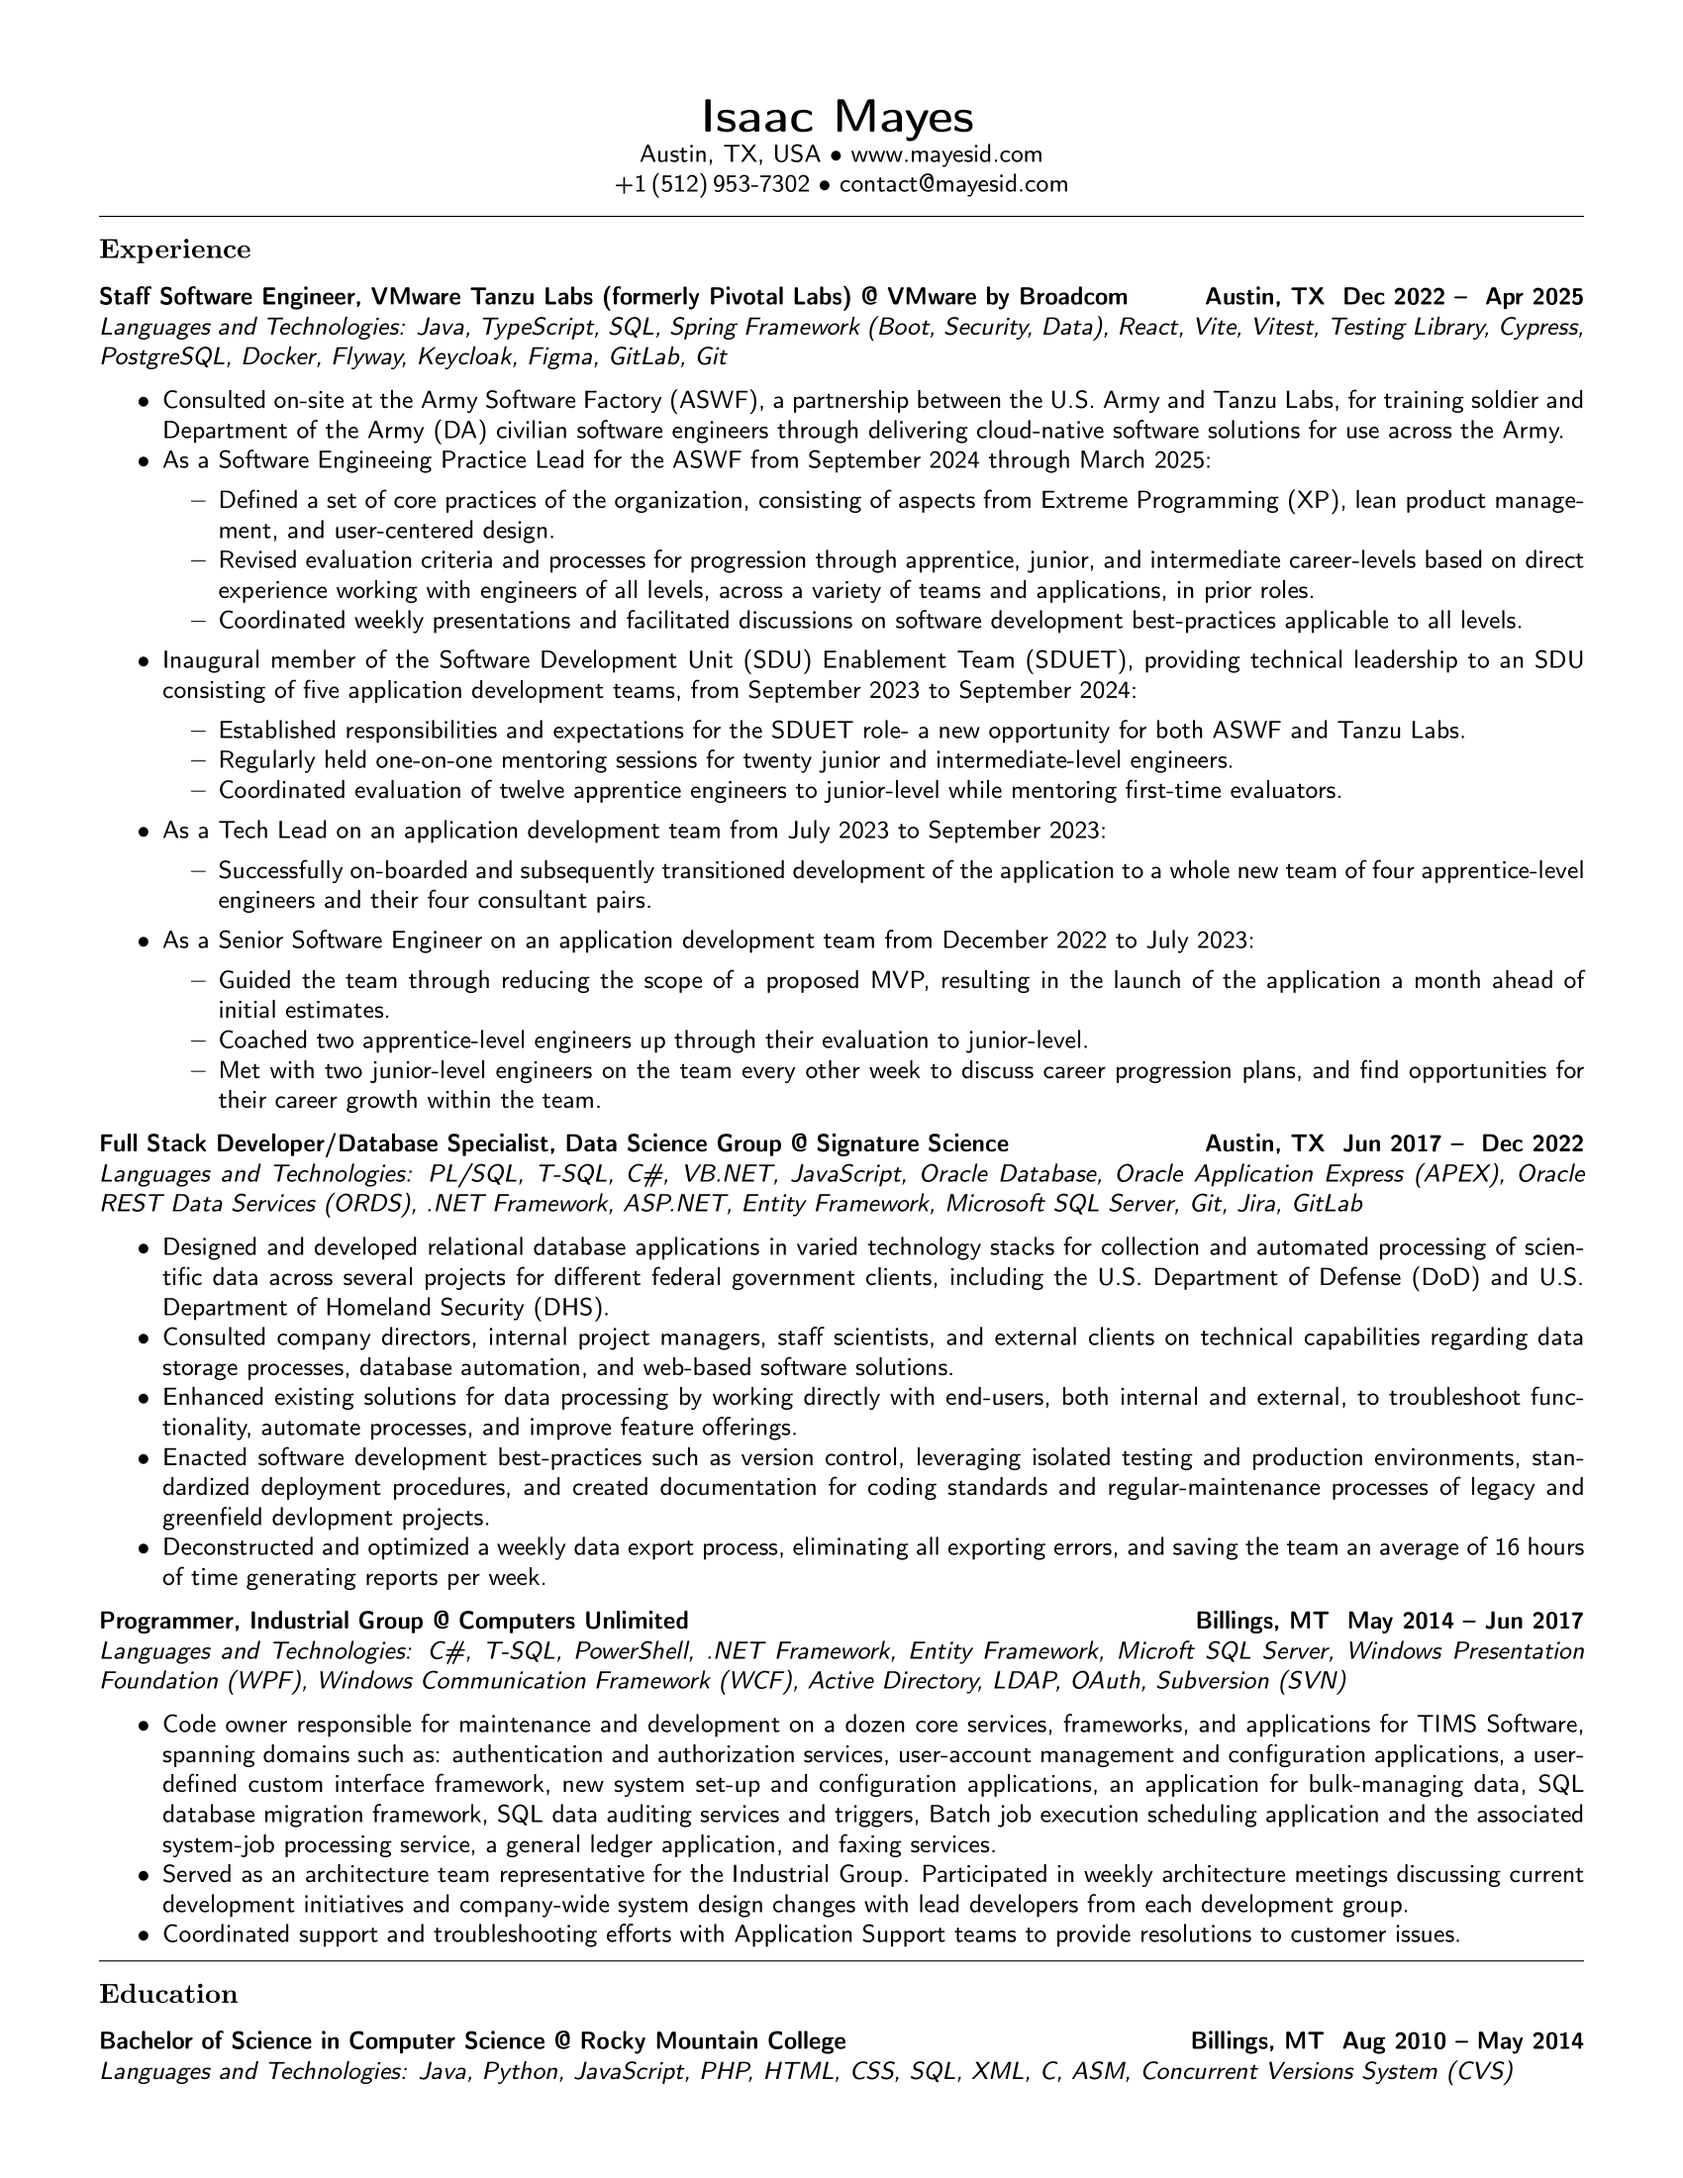
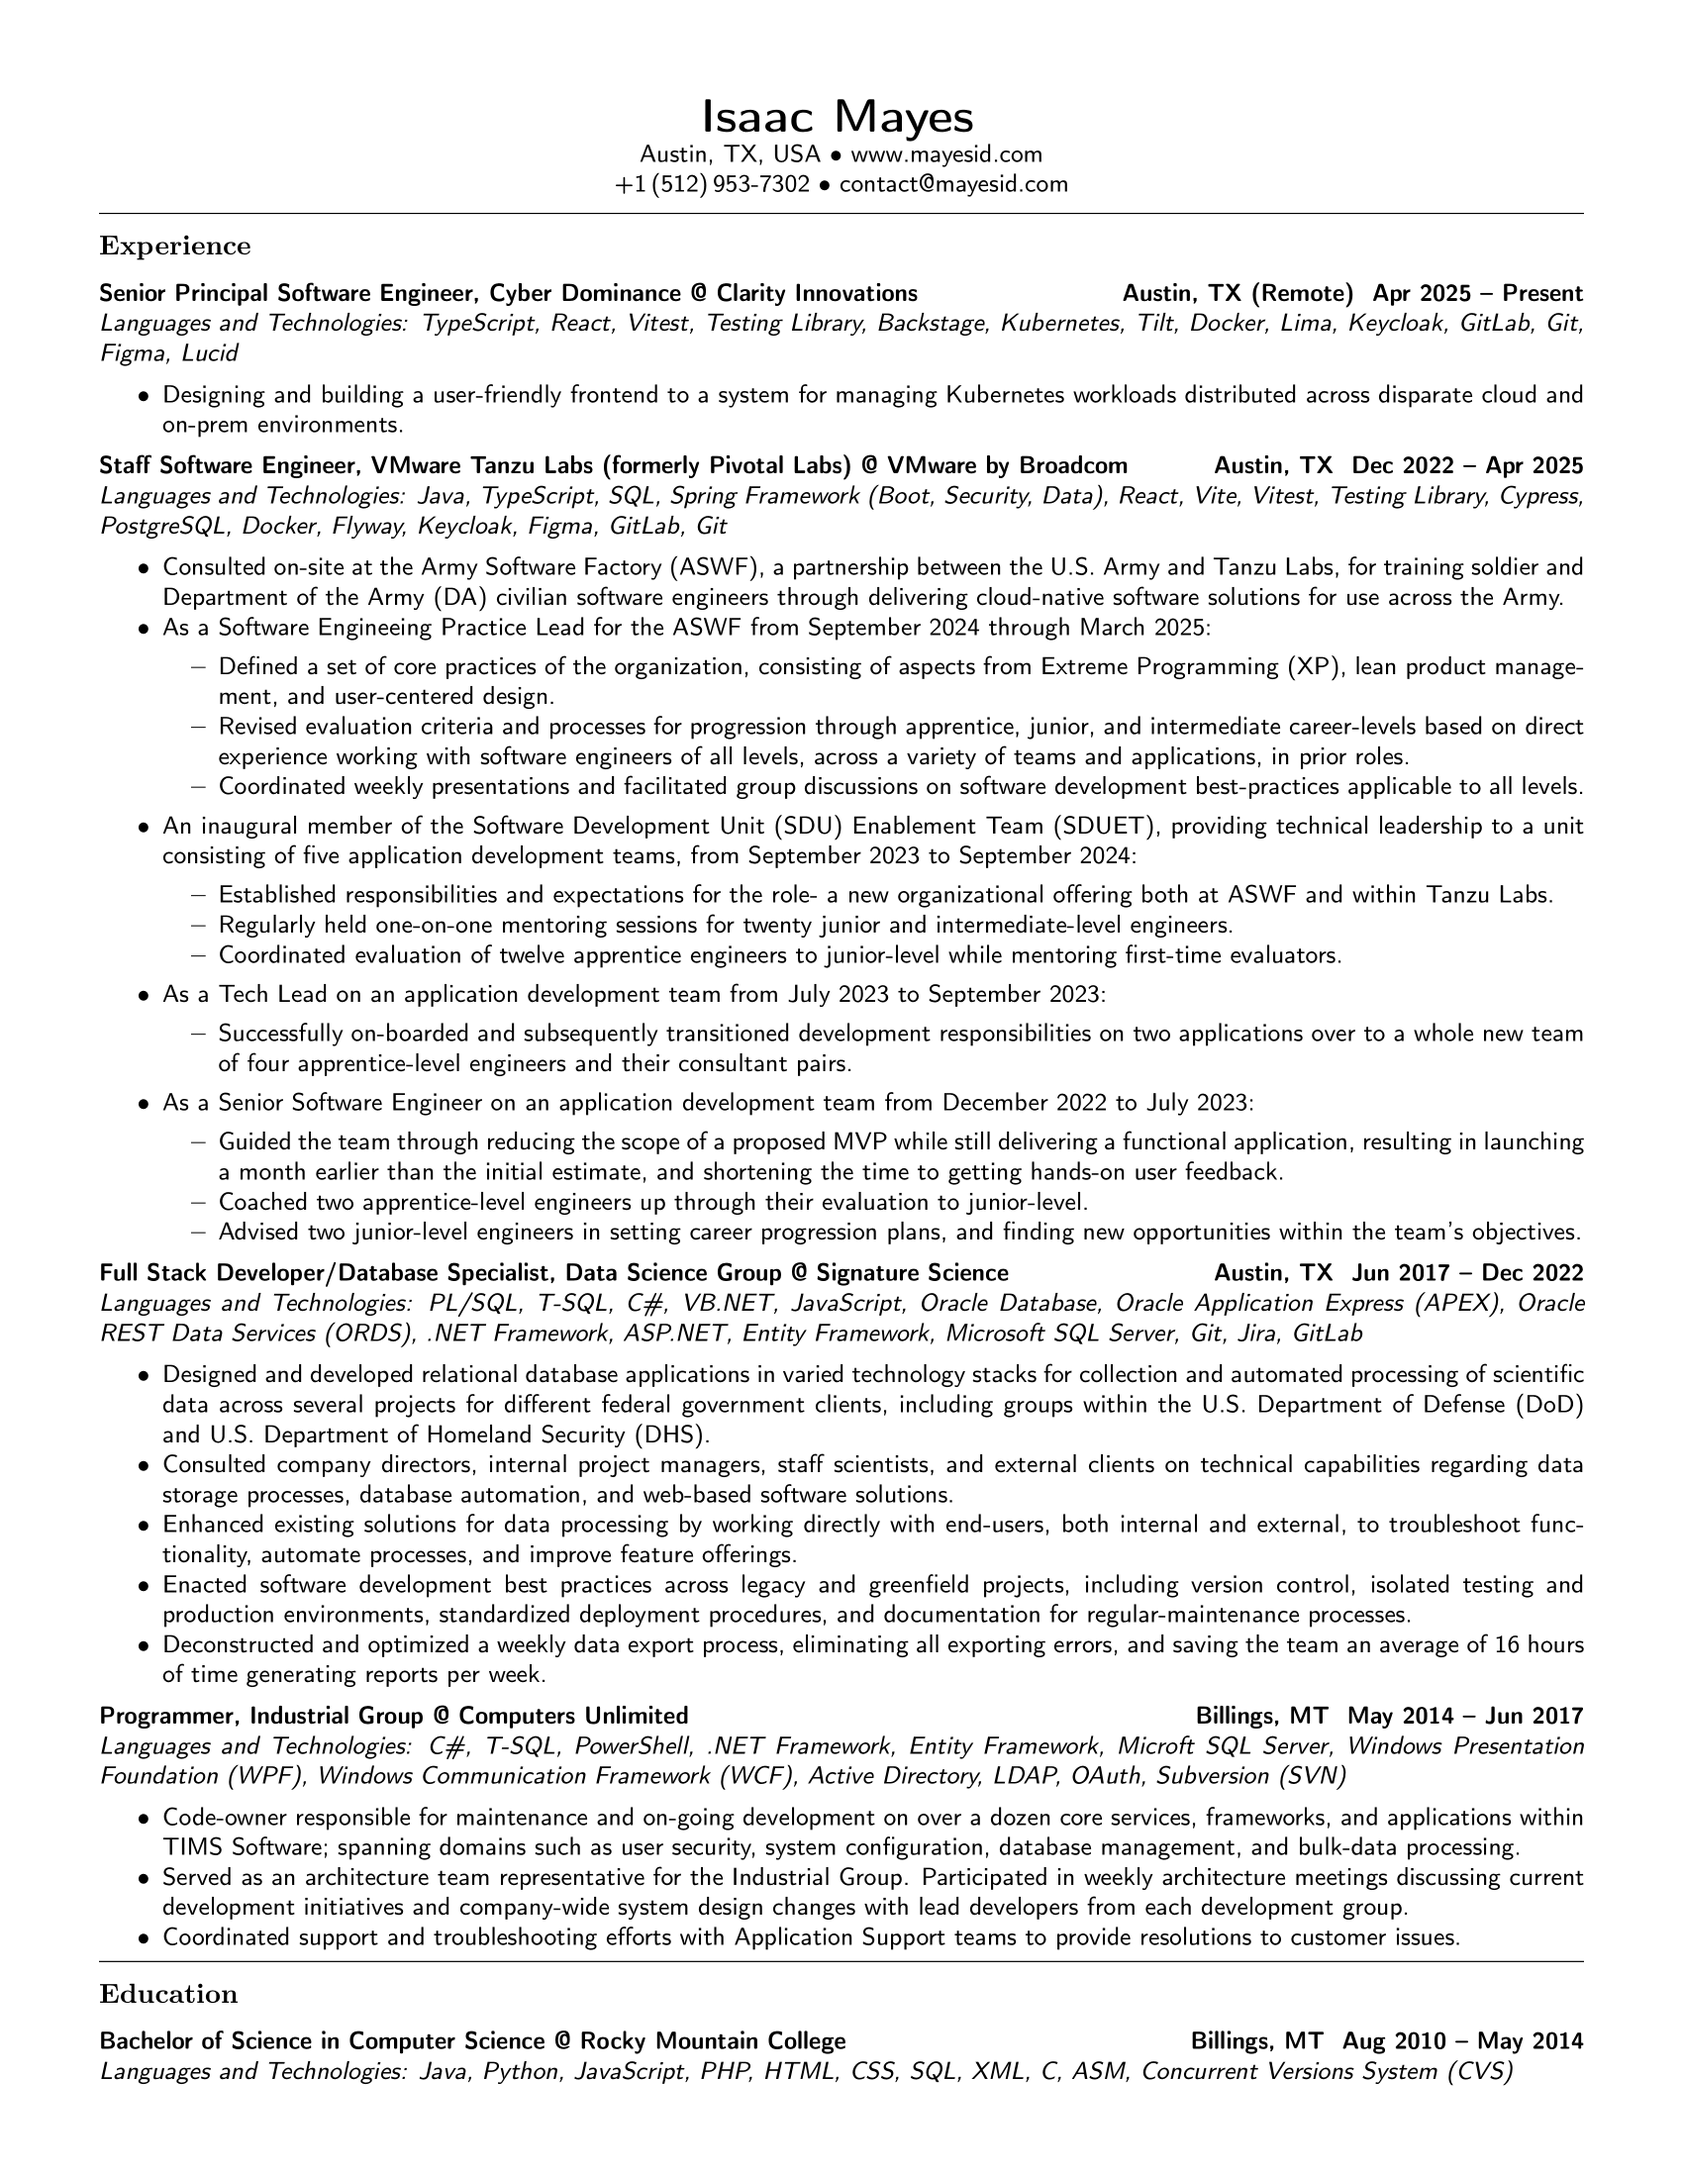
Revise to include latest role

Changed region(s): [[0.0624, 0.0927, 0.9353, 0.8964]]

diff --git a/Resume_IsaacMayes.tex b/Resume_IsaacMayes.tex
@@ -79,6 +79,14 @@ breaklinks
 \subsection*{Experience}
 \pdfbookmark[1]{Experience}{PDF:Experience}
 
+\pdfbookmark[2]{Senior Principal Software Engineer at Clarity Innovations}{PDF:SeniorPrincipalSoftwareEngineerClarityInnovations}
+\textbf{\headerrow
+	{Senior Principal Software Engineer, \href{https://clarityinnovates.com/cyber-dominance/}{Cyber Dominance} @ \href{http://www.clarityinnovates.com/}{Clarity Innovations}}
+	{Austin, TX (Remote) \DatestampYM{2025}{04} -- Present}}
+\emph{Languages and Technologies: TypeScript, React, Vitest, Testing Library, Backstage, Kubernetes, Tilt, Docker, Lima, Keycloak, GitLab, Git, Figma, Lucid}
+\begin{itemize*}
+	\item Designing and building a user-friendly frontend to a system for managing Kubernetes workloads distributed across disparate cloud and on-prem environments.
+\end{itemize*}
 \pdfbookmark[2]{Staff Software Engineer at VMware by Broadcom}{PDF:StaffSoftwareEngineerVMwareBroadcom}
 \textbf{\headerrow
 	{Staff Software Engineer, \href{https://www.vmware.com/solutions/app-platform/tanzu-labs}{VMware Tanzu Labs (formerly Pivotal Labs)} @ \href{https://www.vmware.com/}{VMware by Broadcom}}
@@ -89,24 +97,24 @@ breaklinks
 	\item As a Software Engineeing Practice Lead for the ASWF from September 2024 through March 2025:
 		\begin{itemize*}
 			\item Defined a set of core practices of the organization, consisting of aspects from Extreme Programming (XP), lean product management, and user-centered design.
-			\item Revised evaluation criteria and processes for progression through apprentice, junior, and intermediate career-levels based on direct experience working with engineers of all levels, across a variety of teams and applications, in prior roles.
-			\item Coordinated weekly presentations and facilitated discussions on software development best-practices applicable to all levels.
+			\item Revised evaluation criteria and processes for progression through apprentice, junior, and intermediate career-levels based on direct experience working with software engineers of all levels, across a variety of teams and applications, in prior roles.
+			\item Coordinated weekly presentations and facilitated group discussions on software development best-practices applicable to all levels.
 		\end{itemize*}
-	\item Inaugural member of the Software Development Unit (SDU) Enablement Team (SDUET), providing technical leadership to an SDU consisting of five application development teams, from September 2023 to September 2024:
+	\item An inaugural member of the Software Development Unit (SDU) Enablement Team (SDUET), providing technical leadership to a unit consisting of five application development teams, from September 2023 to September 2024:
 		\begin{itemize*}
-		\item Established responsibilities and expectations for the SDUET role- a new opportunity for both ASWF and Tanzu Labs.
+		\item Established responsibilities and expectations for the role- a new organizational offering both at ASWF and within Tanzu Labs.
 		\item Regularly held one-on-one mentoring sessions for twenty junior and intermediate-level engineers.
 		\item Coordinated evaluation of twelve apprentice engineers to junior-level while mentoring first-time evaluators.
 		\end{itemize*}
 		\item As a Tech Lead on an application development team from July 2023 to September 2023:
 		\begin{itemize*}
-			\item Successfully on-boarded and subsequently transitioned development of the application to a whole new team of four apprentice-level engineers and their four consultant pairs.
+			\item Successfully on-boarded and subsequently transitioned development responsibilities on two applications over to a whole new team of four apprentice-level engineers and their consultant pairs.
 		\end{itemize*} 
 		\item As a Senior Software Engineer on an application development team from December 2022 to July 2023:
 		\begin{itemize*}
-			\item Guided the team through reducing the scope of a proposed MVP, resulting in the launch of the application a month ahead of initial estimates.
+			\item Guided the team through reducing the scope of a proposed MVP while still delivering a functional application, resulting in launching a month earlier than the initial estimate, and shortening the time to getting hands-on user feedback.
 			\item Coached two apprentice-level engineers up through their evaluation to junior-level.
-			\item Met with two junior-level engineers on the team every other week to discuss career progression plans, and find opportunities for their career growth within the team.
+			\item Advised two junior-level engineers in setting career progression plans, and finding new opportunities within the team's objectives.
 		\end{itemize*}
 \end{itemize*}
 \pdfbookmark[2]{Full-stack Software Developer at Signature Science}{PDF:FullStackDeveloperDatabaseSpecialistSignatureScience}
@@ -115,10 +123,10 @@ breaklinks
 	{Austin, TX \DatestampYM{2017}{06} --\DatestampYM{2022}{12}}}
 \emph{Languages and Technologies: PL/SQL, T-SQL, C\#, VB.NET, JavaScript, Oracle Database, Oracle Application Express (APEX), Oracle REST Data Services (ORDS), .NET Framework, ASP.NET, Entity Framework, Microsoft SQL Server, Git, Jira, GitLab}
 \begin{itemize*}
-	\item Designed and developed relational database applications in varied technology stacks for collection and automated processing of scientific data across several projects for different federal government clients, including the U.S. Department of Defense (DoD) and U.S. Department of Homeland Security (DHS).
+	\item Designed and developed relational database applications in varied technology stacks for collection and automated processing of scientific data across several projects for different federal government clients, including groups within the U.S. Department of Defense (DoD) and U.S. Department of Homeland Security (DHS).
 	\item Consulted company directors, internal project managers, staff scientists, and external clients on technical capabilities regarding data storage processes, database automation, and web-based software solutions.
 	\item Enhanced existing solutions for data processing by working directly with end-users, both internal and external, to troubleshoot functionality, automate processes, and improve feature offerings.
-	\item Enacted software development best-practices such as version control, leveraging isolated testing and production environments, standardized deployment procedures, and created documentation for coding standards and regular-maintenance processes of legacy and greenfield devlopment projects.
+	\item Enacted software development best practices across legacy and greenfield projects, including version control, isolated testing and production environments, standardized deployment procedures, and documentation for regular-maintenance processes.
 	\item Deconstructed and optimized a weekly data export process, eliminating all exporting errors, and saving the team an average of 16 hours of time generating reports per week.
 \end{itemize*}
 \pdfbookmark[2]{Industrial Programmer at Computers Unlimited}{PDF:IndustrialProgrammerComputersUnlimited}
@@ -127,7 +135,7 @@ breaklinks
 	{Billings, MT \DatestampYM{2014}{05} --\DatestampYM{2017}{06}}}
 \emph{Languages and Technologies: C\#, T-SQL, PowerShell, .NET Framework, Entity Framework, Microft SQL Server, Windows Presentation Foundation (WPF), Windows Communication Framework (WCF), Active Directory, LDAP, OAuth, Subversion (SVN)}
 \begin{itemize*}
-		\item Code owner responsible for maintenance and development on a dozen core services, frameworks, and applications for TIMS Software, spanning domains such as: authentication and authorization services, user-account management and configuration applications, a user-defined custom interface framework, new system set-up and configuration applications, an application for bulk-managing data, SQL database migration framework, SQL data auditing services and triggers, Batch job execution scheduling application and the associated system-job processing service, a general ledger application, and faxing services.
+		\item Code-owner responsible for maintenance and on-going development on over a dozen core services, frameworks, and applications within TIMS Software; spanning domains such as user security, system configuration, database management, and bulk-data processing.
 		\item Served as an architecture team representative for the Industrial Group. Participated in weekly architecture meetings discussing current development initiatives and company-wide system design changes with lead developers from each development group.
 		\item Coordinated support and troubleshooting efforts with Application Support teams to provide resolutions to customer issues.
 	\end{itemize*}
